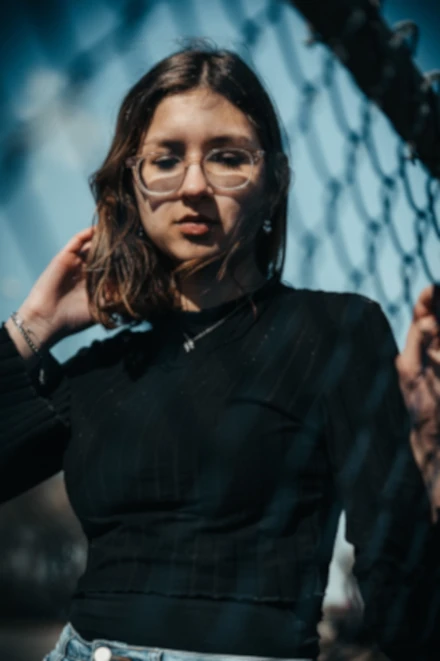
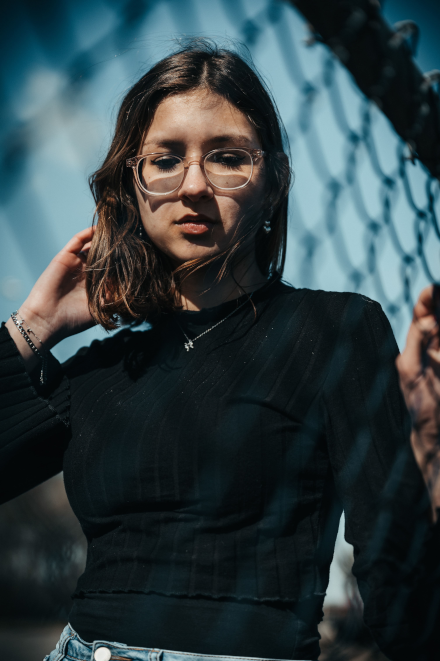
Optimisation des images et ajout de plusieurs version d'image en fonction du device utilisé

diff --git a/ninacarducci.github.io-main/index.html b/ninacarducci.github.io-main/index.html
@@ -19,6 +19,9 @@
     ></script>
     <script src="./assets/maugallery.min.js" defer></script>
     <script src="./assets/scripts.min.js" async></script>
+    <title>
+      Photographe passionné : Immortaliser vos moments de bonheur et d'émotion
+    </title>
   </head>
   <header>
     <div class="top-header">
@@ -164,21 +167,44 @@
               data-gallery-tag="Concert"
               class="gallery-item"
               src="./assets/images/gallery/concerts/stage_picture_from_crowd.jpg"
+              srcset="
+                ./assets/images/gallery/concerts/stage_picture_from_crowd_small.webp 320w,
+                ./assets/images/gallery/concerts/stage_picture_from_crowd_large.webp 440w
+              "
+              sizes="(max-width: 440px) 320px, 440px"
+              loading="lazy"
             />
             <img
               data-gallery-tag="Entreprises"
               class="gallery-item"
               src="./assets/images/gallery/entreprise/businessman_picture.jpg"
+              srceset="
+                ./assets/images/gallery/entreprise/businessman_picture_small.webp 320w,
+                ./assets/images/gallery/entreprise/businessman_picture_large.webp 440w"
+              sizes="(max-width: 440px) 320px, 440px"
+              loading="lazy"
             />
             <img
               data-gallery-tag="Entreprises"
               class="gallery-item"
               src="./assets/images/gallery/entreprise/team_building_picture.jpg"
+              srcset="
+                ./assets/images/gallery/entreprise/team_building_picture_small.webp 320w,
+                ./assets/images/gallery/entreprise/team_building_picture_large.webp 440w
+              "
+              sizes="(max-width: 440px) 320px, 440px"
+              loading="lazy"
             />
             <img
               data-gallery-tag="Mariages"
               class="gallery-item"
               src="./assets/images/gallery/mariage/holding_hands.jpg"
+              srcset="
+                .assets/images/gallery/mariage/holding_hands_small.webp  320w,
+                ./assets/images/gallery/mariage/holding_hands_large.webp 440w
+              "
+              sizes="(max-width: 440px) 320px, 440px"
+              loading="lazy"
             />
             <img
               data-gallery-tag="Portrait"
@@ -188,13 +214,19 @@
                 ./assets/images/gallery/portraits/eyes_closed_picture_small.webp 320w,
                 ./assets/images/gallery/portraits/eyes_closed_picture_large.webp 440w
               "
-              sizes="(max-width: 600px) 320px, 440px"
+              sizes="(max-width: 440px) 320px, 440px"
               loading="lazy"
             />
             <img
               data-gallery-tag="Mariages"
               class="gallery-item"
               src="./assets/images/gallery/mariage/laughing_married.jpg"
+              srcset="
+                .assets/images/gallery/mariage/laughing_married_small.webp  320w,
+                ./assets/images/gallery/mariage/laughing_married_large.webp 440w
+              "
+              sizes="(max-width: 440px) 320px, 440px"
+              loading="lazy"
             />
             <img
               data-gallery-tag="Portrait"
@@ -204,18 +236,28 @@
                 ./assets/images/gallery/portraits/through_wire_mesh_picture_small.webp 320w,
                 ./assets/images/gallery/portraits/through_wire_mesh_picture_large.webp 440w
               "
-              sizes="(max-width: 600px) 320px, 440px"
+              sizes="(max-width: 440px) 320px, 440px"
               loading="lazy"
             />
             <img
               data-gallery-tag="Concert"
               class="gallery-item"
               src="./assets/images/gallery/concerts/singer_on_stage.jpg"
+              srceset="
+                ./assets/images/gallery/concerts/singer_on_stage_small.webp 320w,
+                ./assets/images/gallery/concerts/singer_on_stage_large.webp 440w"
+              sizes="(max-width: 440px) 320px, 440px"
+              loading="lazy"
             />
             <img
               data-gallery-tag="Entreprises"
               class="gallery-item"
               src="./assets/images/gallery/entreprise/laughing_office_worker.jpg"
+              srceset="
+                ./assets/images/gallery/entreprise/laughing_office_worker_small.webp 320w,
+                ./assets/images/gallery/entreprise/laughing_office_worker_large.webp 440w"
+              sizes="(max-width: 440px) 320px, 440px"
+              loading="lazy"
             />
           </div>
         </div>
